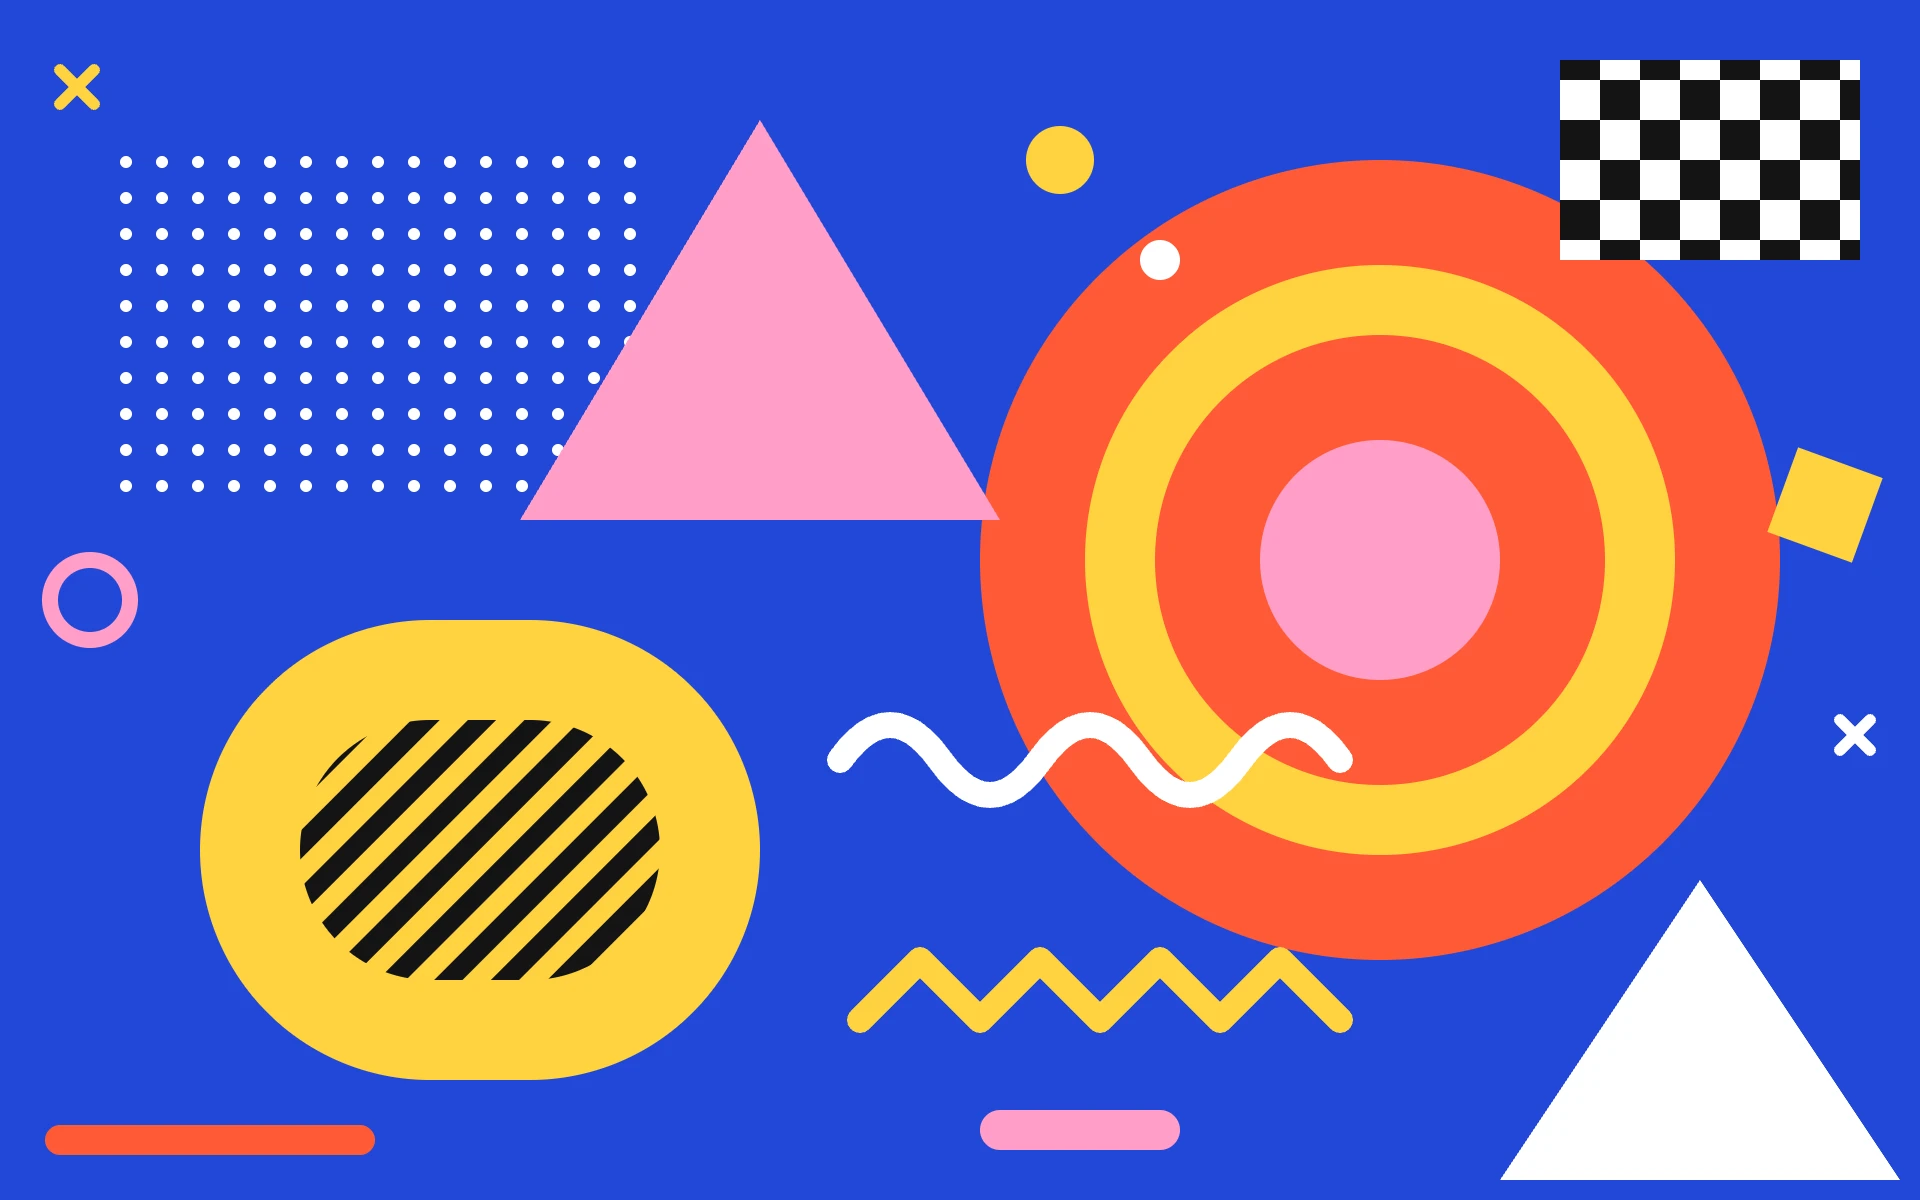
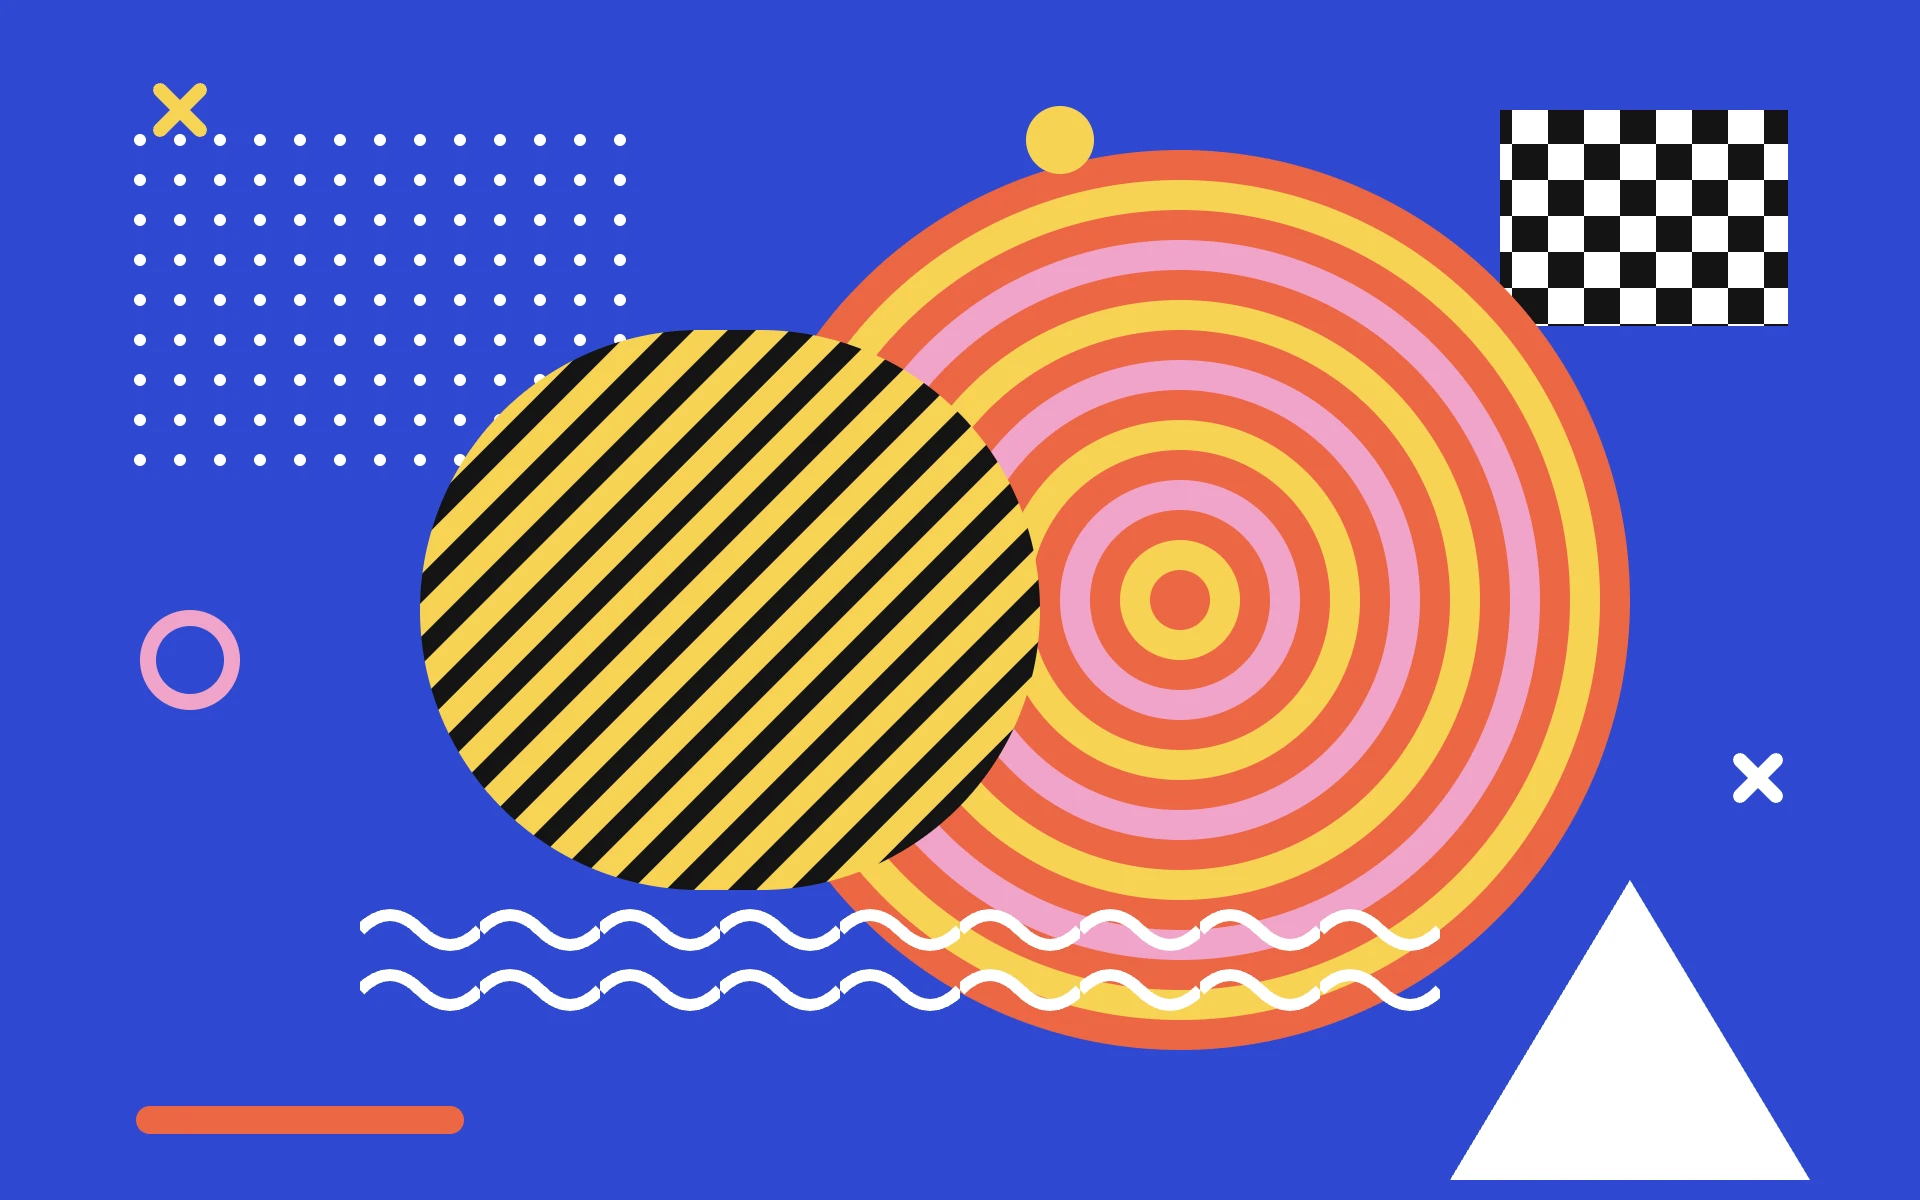
chore: make the playground a single card with patterned backdrops

diff --git a/playground/src/app.tsx b/playground/src/app.tsx
@@ -18,11 +18,9 @@ import {
   type BackdropName,
   BLEND_MODE_OPTIONS,
   CHANNEL_OPTIONS,
+  DEFAULT_SETTINGS,
   findSlider,
   type NumericSetting,
-  PRESET_OPTIONS,
-  PRESET_SETTINGS,
-  type PresetName,
   RENDERER_OPTIONS,
   type Settings,
   SLIDER_SECTIONS,
@@ -53,8 +51,8 @@ export function App(): ReactNode {
   const stageRef = useRef<HTMLDivElement>(null);
   const backdropRef = useRef<HTMLImageElement>(null);
 
-  const [settings, setSettings] = useState<Settings>(PRESET_SETTINGS.tabBar);
-  const [backdrop, setBackdrop] = useState<BackdropName>("1");
+  const [settings, setSettings] = useState<Settings>(DEFAULT_SETTINGS);
+  const [backdrop, setBackdrop] = useState<BackdropName>("2");
   const [copied, setCopied] = useState(false);
 
   const drag = useDrag(stageRef);
@@ -65,8 +63,6 @@ export function App(): ReactNode {
   const updateBlendMode = useSettingUpdater("mixBlendMode", setSettings);
   const updateRefraction = useSettingUpdater("refraction", setSettings);
 
-  const { preset, ...surfaceSettings } = settings;
-
   const updateNumber = useCallback(function applyNumberSetting(
     key: NumericSetting,
     value: number
@@ -76,14 +72,8 @@ export function App(): ReactNode {
     });
   }, []);
 
-  const choosePreset = useCallback(function selectPreset(name: PresetName) {
-    setSettings(PRESET_SETTINGS[name]);
-  }, []);
-
-  const resetSettings = useCallback(function restorePreset() {
-    setSettings(function applyPreset(current) {
-      return PRESET_SETTINGS[current.preset];
-    });
+  const resetSettings = useCallback(function restoreDefaults() {
+    setSettings(DEFAULT_SETTINGS);
   }, []);
 
   const copySnippet = useCallback(
@@ -107,13 +97,6 @@ export function App(): ReactNode {
   return (
     <main className="playground">
       <div className="toolbar">
-        <SegmentedControl
-          label="Preset"
-          onChange={choosePreset}
-          options={PRESET_OPTIONS}
-          value={preset}
-        />
-
         <SegmentedControl
           label="Backdrop"
           onChange={setBackdrop}
@@ -140,7 +123,7 @@ export function App(): ReactNode {
           onPointerUp={drag.handlePointerUp}
           style={handleStyle}
         >
-          <GlassSurface {...surfaceSettings} backdrop={backdropRef} />
+          <GlassSurface {...settings} backdrop={backdropRef} />
         </div>
       </div>
 

diff --git a/playground/src/settings.ts b/playground/src/settings.ts
@@ -6,8 +6,6 @@ import type {
   GlassSurfaceOptions,
 } from "@svidskiy/glass-surface-react";
 
-export type PresetName = "tabBar" | "button" | "card";
-
 export type BackdropName = "1" | "2" | "3";
 
 export type NumericSetting =
@@ -32,7 +30,6 @@ export type Settings = Pick<
 > & {
   height: number;
   mixBlendMode: BlendMode;
-  preset: PresetName;
   refraction: boolean;
   renderer: GlassRenderer;
   width: number;
@@ -194,12 +191,6 @@ export const SLIDERS: SliderDefinition[] = [
   },
 ];
 
-export const PRESET_OPTIONS: Option<PresetName>[] = [
-  { label: "Tab Bar", value: "tabBar" },
-  { label: "Button", value: "button" },
-  { label: "Card", value: "card" },
-];
-
 export const BACKDROP_OPTIONS: Option<BackdropName>[] = [
   { label: "1", value: "1" },
   { label: "2", value: "2" },
@@ -240,28 +231,11 @@ export const BLEND_MODE_OPTIONS: Option<BlendMode>[] = [
   return { label: value, value: value as BlendMode };
 });
 
-export const PRESET_SETTINGS: Record<PresetName, Settings> = {
-  button: {
-    ...defaultOptions,
-    borderRadius: 32,
-    height: 64,
-    preset: "button",
-    width: 220,
-  },
-  card: {
-    ...defaultOptions,
-    borderRadius: 28,
-    height: 220,
-    preset: "card",
-    width: 360,
-  },
-  tabBar: {
-    ...defaultOptions,
-    borderRadius: 38,
-    height: 76,
-    preset: "tabBar",
-    width: 320,
-  },
+export const DEFAULT_SETTINGS: Settings = {
+  ...defaultOptions,
+  borderRadius: 28,
+  height: 220,
+  width: 360,
 };
 
 export function findSlider(key: NumericSetting): SliderDefinition {

diff --git a/playground/src/snippet.ts b/playground/src/snippet.ts
@@ -23,9 +23,7 @@ function differsFromDefault([name, value]: [string, unknown]): boolean {
 
 /** A ready-to-paste component with every prop that differs from the defaults, sorted by name. */
 export function createSnippet(settings: Settings): string {
-  const { preset, ...props } = settings;
-
-  const changed = Object.entries(props).filter(differsFromDefault);
+  const changed = Object.entries(settings).filter(differsFromDefault);
 
   const propLines = changed
     .map(function toProp([name, value]) {

diff --git a/README.md b/README.md
@@ -108,9 +108,9 @@ export function TabBar() {
 ## Playground
 
 The [playground](https://glass-surface.svidware.workers.dev) drags the surface
-over five websites, tunes every option, and copies the component.
+over three patterned backdrops, tunes every option, and copies the component.
 
-![The playground: a glass tab bar over a website and the Customize panel](.github/screenshots/playground.webp)
+![The playground: a glass card over a patterned backdrop and the Customize panel](.github/screenshots/playground.webp)
 
 ## Renderers
 
